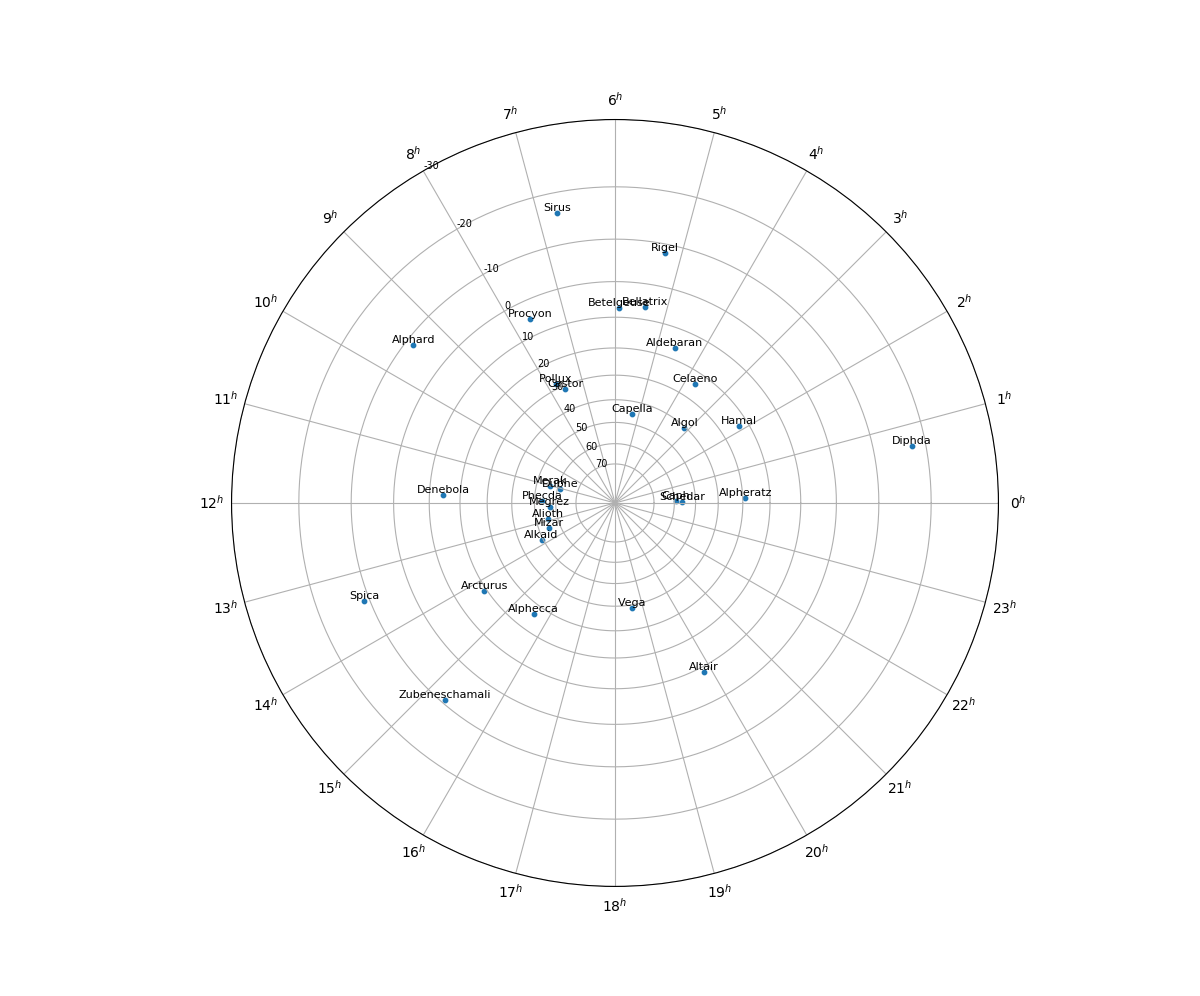
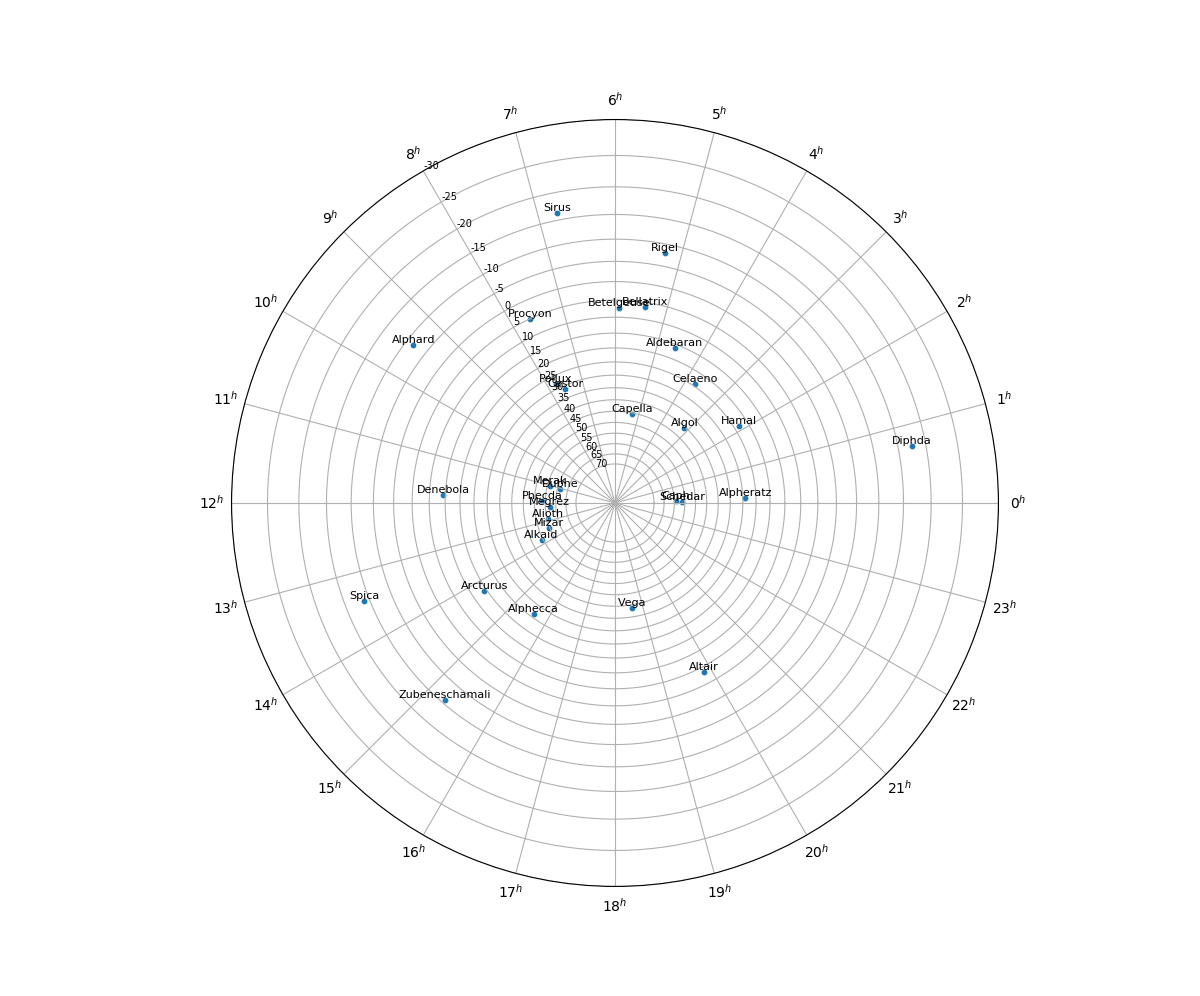
generate almucanter circles for latitudes

Changed region(s): [[0.4933, 0.4357, 0.5242, 0.4669], [0.4625, 0.4046, 0.4933, 0.4357]]

diff --git a/page_x_astrolabe/generate_latitude_plate.py b/page_x_astrolabe/generate_latitude_plate.py
@@ -5,24 +5,44 @@ import numpy as np
 import matplotlib.pyplot as plt
 from scipy.interpolate import interp1d
 import math
+import generate_declination_ruler as declination_script # import declination script to retrieve declination values
 
-def calculateLatitudeCirclePosition(latitude_in_degrees):
-	radius = 10
-	offset = 15
+def calculateLatitudeCirclePosition(latitude_in_degrees, degree_at_90, left_right_list, radius_plate):
+	# Calculate the size and position of the latitude line/plate
+	# position of center (offset)
+	left_position = left_right_list[0]
+	right_position = left_right_list[1]
+	print("Degree: {0} at {1} and {2}".format(latitude_in_degrees, left_position, right_position))
+
+	def lengthSegment(angle):
+		#print(angle)
+		angle_in_radians = np.deg2rad(45 - angle/2)
+		equation_of_length = radius_plate * math.tan(angle_in_radians) # calculated
+		return equation_of_length
+
+	left_segment = lengthSegment(left_position)
+	right_segment = lengthSegment(right_position)
+	center_point = lengthSegment(degree_at_90) # position of the zenith
+	radius_position = (abs(right_segment) + abs(left_segment)) / 2
+	radius_length = radius_position - center_point
+	#print("Left Length = {0:.2f}, Right Length = {1:.2f}, Center point = {2:.2f}".format(left_segment, right_segment, center_point))
+	#print("Radius = {0}".format(radius_length))
+
+	if latitude_in_degrees == 90:
+		radius_length = 0
+
+	radius = radius_length
+	offset = center_point
 	return radius, offset
 
-def plotLatitudePlate(ruler_length, northOrSouth, displayAxis):
+
+def plotLatitudePlate(actual_observation_latitude, ruler_length, almucanter_degree_position_dict, northOrSouth, displayAxis):
 	# Plot latitude plate
 	fig = plt.figure(figsize=(12,12), dpi=100)
 	ax = fig.subplots()
 
 	radius_of_plate = ruler_length / 2
 
-	# Set Right Ascension (astronomical 'longitude') as X
-	plt.xticks([])
-	ax.set_xticklabels([], fontsize=0) # do not display RA
-
-	# Set Declination (astronomical 'latitude') as Y
 	tropic_of_capricorn = -23.5 # degrees
 	tropic_of_cancer = 23.5 # degrees
 	equator = 0.0 # degrees
@@ -46,11 +66,6 @@ def plotLatitudePlate(ruler_length, northOrSouth, displayAxis):
 	declination_offset = []
 	declination_labels = []
 
-	#ax.set_ylim(0, radius_of_plate) # limit range to within the tropics
-	#ax.set_xlim(-radius_of_plate, radius_of_plate+1) # limit range to within the tropics
-	#ax.set_ylim(-radius_of_plate, radius_of_plate+1) # limit range to within the tropics
-	#print("limit = {0}".format(radius_of_plate))
-
 	def plotCircles(radius_pos, label_name, radius_offset, label_color, outer_radius):
 		# plot 360 degrees circle
 		declination_position.append(round(radius_pos, 4))
@@ -60,26 +75,29 @@ def plotLatitudePlate(ruler_length, northOrSouth, displayAxis):
 		circle = plt.Circle(xy=(radius_offset,0), radius=radius_pos, fill=False, color=label_color)
 		ax.add_patch(circle)
 
-		#import matplotlib.patches as patches
-		#mask = patches.Circle((8,8),radius=5)
-		#circle.set_clip_path(mask)
-		#ax.add_patch(mask)
-
 	# Draw circle/curve for: Tropic of Cancer, Equator, Tropic of Capricon
 	tropics_labels = ["Tropic of Capricorn", "Equator", "Tropic of Cancer"]
 	tropics_positions = [capricorn_radius, equator_radius, cancer_radius]
 	for i, pos in enumerate(tropics_positions):
 		plotCircles(pos, tropics_labels[i], 0, "Black", radius_of_plate)
-	
-	# Draw circle/curve for: Horizon
-	horizon_position = 0 # degrees
-	horizon_radius, horizon_offset = calculateLatitudeCirclePosition(horizon_position)
-	plotCircles(horizon_radius, "Horizon", horizon_offset, "Blue", radius_of_plate)
-	
-	# Draw circle/curve for: Declination latitude angles
-	latitude_list = np.arange(-90, 90+1, 10) # in degrees
-	#for latitude_in_degrees in latitude_list:
-	#	plotCircles(latitude_in_degrees, str(latitude_in_degrees), 0, "Green")
+
+	# Draw circle/curve for almucanter lines
+	for latitude_in_degree, left_right_position in almucanter_degree_position_dict.items():
+		#print(latitude_in_degree)
+		#print(left_right_position)
+		degree_position_at_90 = almucanter_degree_position_dict[90][0]
+		latitude_radius, latitude_center = calculateLatitudeCirclePosition(latitude_in_degree, degree_position_at_90, left_right_position, radius_of_plate)
+		if northOrSouth == "North":
+			if latitude_in_degree != 0:
+				plotCircles(latitude_radius, str(latitude_in_degree), latitude_center, "gold", radius_of_plate)
+			else:
+				plotCircles(latitude_radius, "Horizon", latitude_center, "blueviolet", radius_of_plate)
+		if northOrSouth == "South":
+			# flip latitude center to negative
+			if latitude_in_degree != 0:
+				plotCircles(latitude_radius, str(latitude_in_degree), -latitude_center, "gold", radius_of_plate)
+			else:
+				plotCircles(latitude_radius, "Horizon", -latitude_center, "blueviolet", radius_of_plate)
 
 	# Display circle labels
 	print(declination_position)
@@ -87,20 +105,58 @@ def plotLatitudePlate(ruler_length, northOrSouth, displayAxis):
 	print(declination_offset)
 	if displayAxis:
 		for i, txt in enumerate(declination_labels):
-			ax.annotate(txt, xy=(declination_offset[i], declination_position[i]), 
-						horizontalalignment='center', verticalalignment='bottom', 
-						fontsize=8)
-		plt.axis('off')
+			ax.annotate(txt, xy=(declination_offset[i], declination_position[i]), fontsize=8)
+		plt.axis('on')
 	else:
 		plt.axis('off')
+
+	import matplotlib.patches as patches
+	mask = patches.Circle((9,9),radius=7)
+	ax.set_clip_path(mask)
+	#ax.add_patch(mask)
+
+
+	plt.title("{0}ern Latitude {1}".format(northOrSouth, actual_observation_latitude))
+	plt.xlim([-radius_of_plate-1, radius_of_plate+1]) # limit range to within the tropics
+	plt.ylim([-radius_of_plate-1, radius_of_plate+1]) # limit range to within the tropics
+	#print("limit = {0}".format(radius_of_plate))
 
 	plt.show()
 	fig.savefig('latitude_plate.png', dpi=fig.dpi)
 
+def calculateAlmucanters(observation_latitude, northOrSouth):
+	# calculate the degree positions for almucanters
+	almucanter_position_dict = {} # degree = [left, right]
+	almucanter_position_dict[90] = [observation_latitude, observation_latitude] # zenith
+
+	almucanter_degree_positions = np.arange(0, 81, 10) # in degrees (0-80)
+
+	for degree in almucanter_degree_positions:
+		# For Northern Hemisphere
+		if northOrSouth == "North":
+			left_degree_position = (observation_latitude + 90) - degree # calculate the left-most degree
+			right_degree_positions = (observation_latitude - 90) + degree # calculate the right-most degree
+			almucanter_position_dict[degree] = [left_degree_position, right_degree_positions]
+		if northOrSouth == "South":
+			left_degree_position = (observation_latitude - 90) + degree # calculate the left-most degree
+			right_degree_positions = (observation_latitude + 90) - degree # calculate the right-most degree
+			almucanter_position_dict[degree] = [left_degree_position, right_degree_positions]
+
+	#print("Latitude {0}: {1}\n{2}".format(observation_latitude, northOrSouth, almucanter_position_dict))
+	return almucanter_position_dict
+
 if __name__ == '__main__':
 	# Chart Options
-	northOrSouth = "North" # options: "North", "South"
 	displayAxis= True # display chart with axis (False/True)
 	total_ruler_length = 30 # units (cut in half for each side of the ruler) (currently has to be even)
+	actual_observation_latitude = 40 # TODO: breaks 90
 
-	plotLatitudePlate(total_ruler_length, northOrSouth, displayAxis)
+	if actual_observation_latitude >= 0:  # TODO: single line if/else
+		northOrSouth = "North" 
+		observation_latitude = 90 - actual_observation_latitude # TODO: fix equation to worko for a latiude relative to 180 instead
+	else: 
+		northOrSouth = "South" # TODO: fix southern values
+		observation_latitude = 90 + actual_observation_latitude # TODO: fix equation to worko for a latiude relative to 180 instead
+
+	almucanter_degree_position_dict =  calculateAlmucanters(observation_latitude, northOrSouth)
+	plotLatitudePlate(actual_observation_latitude, total_ruler_length, almucanter_degree_position_dict, northOrSouth, displayAxis)

diff --git a/page_x_astrolabe/generate_declination_ruler.py b/page_x_astrolabe/generate_declination_ruler.py
@@ -14,7 +14,7 @@ def triggerDeclinationCalculations(ruler_length, dec_min, dec_max, increment):
 
 def calculateLength(angle_of_inclination, radius_of_circle):
 	# convert angle into length of radius
-	#print("Angle {0} = {1}".format(angle_of_inclination, 45-angle_of_inclination/2))
+	#print("Angle {0} = Angle {1}".format(angle_of_inclination, 45-angle_of_inclination/2))
 	angle_in_radians = np.deg2rad(45 - angle_of_inclination/2)
 	equation_of_length = radius_of_circle * math.tan(angle_in_radians) # calculated
 	return equation_of_length
@@ -41,7 +41,7 @@ def calculateRuler(graphPlotSegments, total_ruler_length, declination_min, decli
 		y_lengthSegments.append(ruler_position)
 		if n_angle >= declination_min and n_angle <= declination_max:
 			ruler_position_dict[n_angle] = round(ruler_position, 4)
-			print("Angle {0} = {1:.4f}".format(n_angle, ruler_position))
+			print("Angle {0} = {1:.4f} cm".format(n_angle, ruler_position))
 
 	# optional graph of segments
 	if graphPlotSegments:

diff --git a/page_x_astrolabe/generate_star_chart.py b/page_x_astrolabe/generate_star_chart.py
@@ -215,7 +215,7 @@ if __name__ == '__main__':
 	displayDeclinationNumbers = True # display declination marks (False/True)
 	northOrSouth = "North" # options: "North", "South", "Full" (changes the declination range)
 	total_ruler_length = 30 # units (cut in half for each side of the ruler) (currently has to be even)
-	increment_by = 10 # increment degrees by (1, 5, 10)
+	increment_by = 5 # increment degrees by (1, 5, 10)
 
 	# Calculate declination values
 	if northOrSouth == "North":
